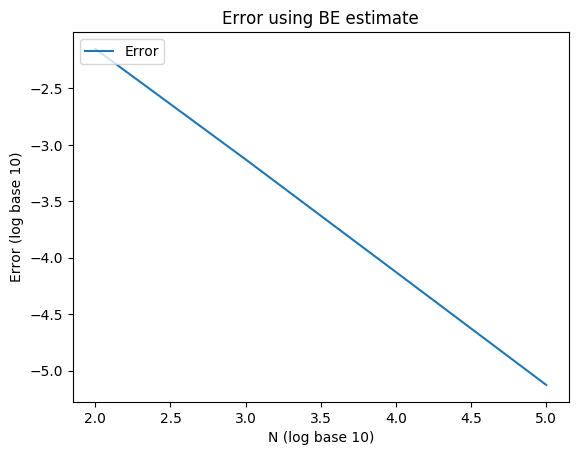
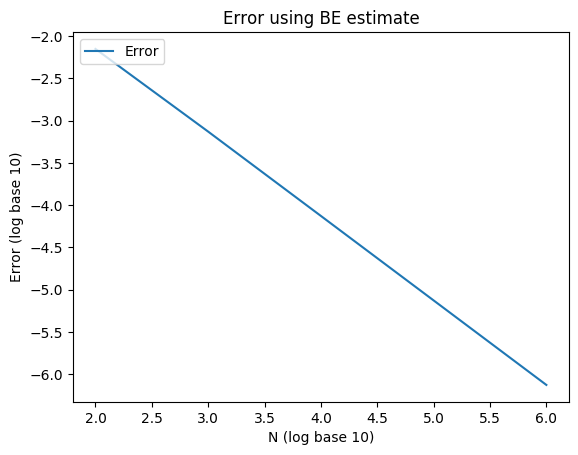
got rid of print statements, corrected N typo

diff --git a/Fitzsimons_hw6.py b/Fitzsimons_hw6.py
@@ -140,7 +140,7 @@ if __name__ == '__main__':
     w = 1
     x0 = np.matrix([[0],[0]])
     T = 10
-    N = [100, 1000, 10000, 100000, 100000]
+    N = [100, 1000, 10000, 100000, 1000000]
     FElast = [0] * 5
     BElast = [0] * 5
     CNlast = [0] * 5
@@ -156,9 +156,6 @@ if __name__ == '__main__':
         BElast[i] = abs(x[len(x)-1] - answer)
         [x,t] = CN(w0,z,m,w,x0,T,n)
         CNlast[i] = abs(x[len(x)-1] - answer)
-    print(FElast)
-    print(BElast)
-    print(CNlast)
 
     plt.figure()
     fig, ax = plt.subplots()
